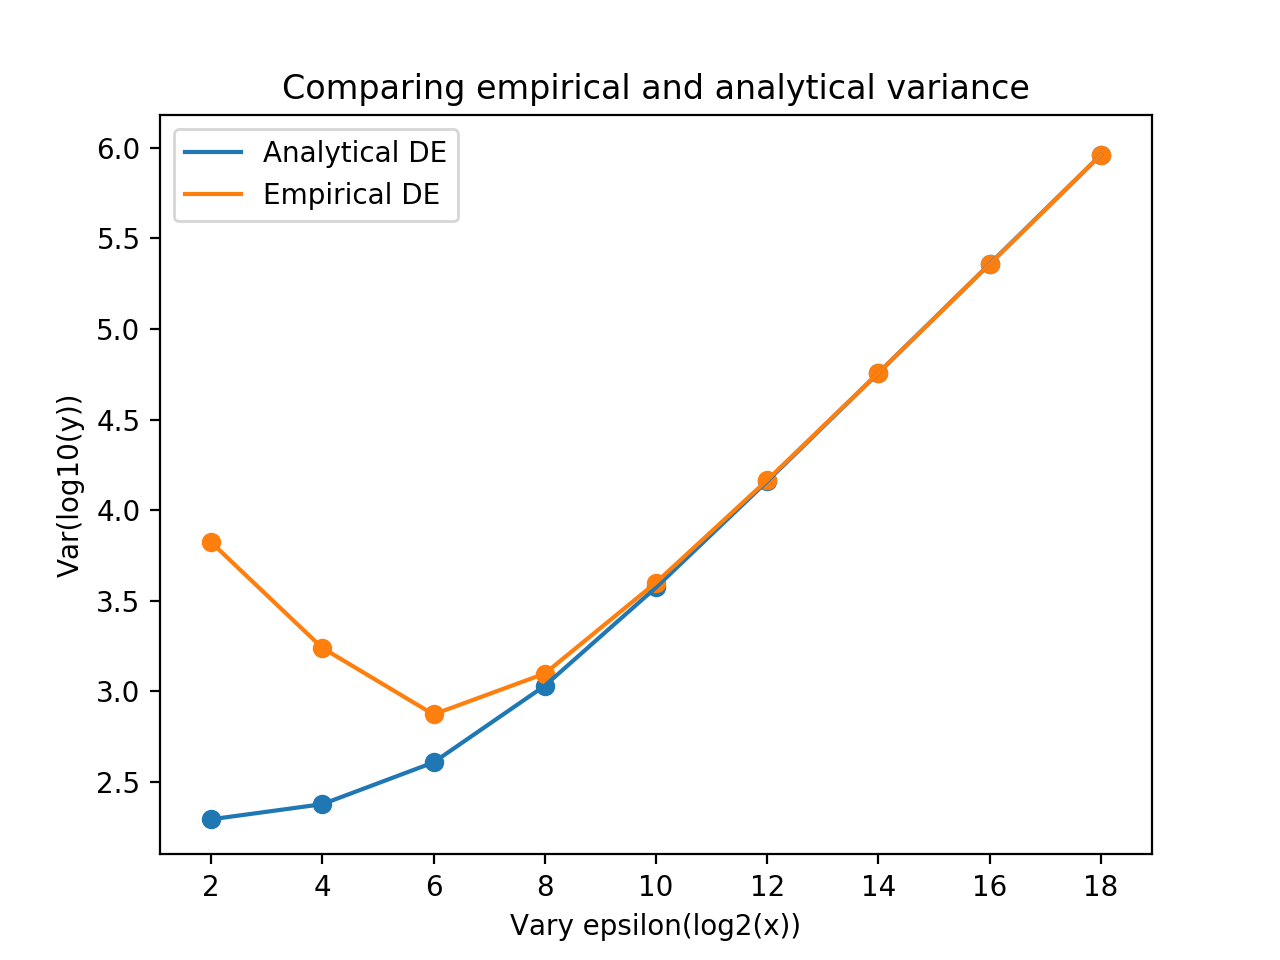
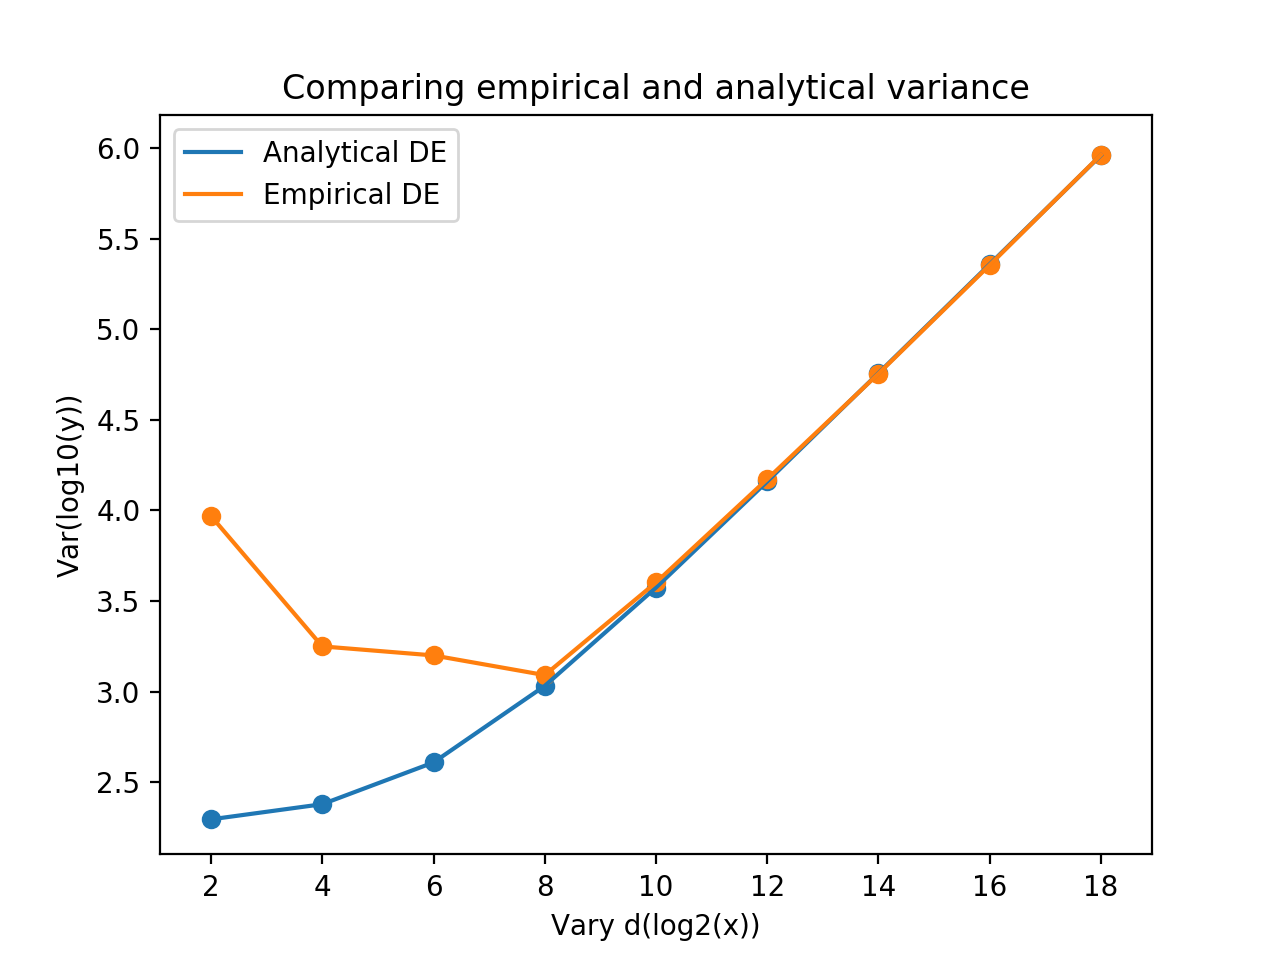
基本完成Direct Encoding,粗略地完成了BLH和OLH

diff --git a/LH_test.py b/LH_test.py
@@ -1,0 +1,177 @@
+from DE.DE import DE
+from protocols.LocalHashing import LocalHashing
+from Components.Draw import draw
+from Components.Distribution import zipf
+import math
+import numpy as np
+
+# protocol is class
+def analytical_BLH(protocol, d, n, g):
+    vars = [] # return a list of variances
+    for step in range(10): # 10 values
+        epsilon = 0.5 + 0.5 * step
+        x = protocol(d, epsilon, g)
+        x.set_n(n)
+        vars.append(x.var_analytical())
+    return vars
+
+# protocol is class, fixing epsilon
+# run very slow, when d is 2^10
+def analytical_eps_BLH(protocol, epsilon, n, g):
+    vars = [] # return a list of variances
+    for step in range(9): #### 9 values
+        d = 2**(2 + step*2)
+        x = protocol(d, epsilon, g)
+        x.set_n(n)
+        vars.append(x.var_analytical())
+    return vars
+
+# zipf distribution, similar to experiments in 14-RAPPOR
+# run very slow, when d is 2^10
+def empirical_eps_BLH(protocol, epsilon, n, g):
+    vars = []
+    for step in range(9): #### 9 values
+        d = 2**(2 + step*2)
+        x = protocol(d, epsilon, g) # init
+        users = zipf.zipf(1.1, d, n)
+        for i in range(len(users)):
+            if i % 1000 == 0:
+                print(step, i, x.get_class_name(), 1)
+            x.PE(users[i])
+        x.aggregation() # estimate couterEsti
+        
+        f = zipf.probList(1.1, d)
+        vars.append(x.var_empirical(f, n))
+    return vars
+
+# g = math.exp(epsilon)+1, to the nearst prime
+def analytical_OLH(protocol, d, n):
+    vars = [] # return a list of variances
+    primeList = [3, 3, 5, 7, 13, 23, 37, 53, 89, 149] # according to epsilon=[0.5, 1.0, ..., 5.0]
+    for step in range(10): # 10 values
+        epsilon = 0.5 + 0.5 * step
+        g = primeList[step]
+        x = protocol(d, epsilon, g)
+        x.set_n(n)
+        vars.append(x.var_analytical())
+    return vars
+
+# protocol is class, fixing epsilon
+# run very slow, when d is 2^10
+def analytical_eps_OLH(protocol, epsilon, n):
+    vars = [] # return a list of variances
+    g = round(math.exp(epsilon)+1)
+    for step in range(9): # 9 values
+        d = 2**(2 + step*2)
+        x = protocol(d, epsilon, g)
+        x.set_n(n)
+        vars.append(x.var_analytical())
+    return vars
+
+# protocol is class, fixing epsilon
+# run very slow, when d is 2^10
+def empirical_eps_OLH(protocol, epsilon, n):
+    vars = []
+    g = 53 # round(math.exp(epsilon)+1)效果不好，要取最近的素数（因为universal hashing！！)
+    for step in range(9): #### 9 values
+        d = 2**(2 + step*2)
+        x = protocol(d, epsilon, g) # init
+        users = zipf.zipf(1.1, d, n)
+        for i in range(len(users)):
+            if i % 1000 == 0:
+                print(step, i, x.get_class_name(), 2)
+            x.PE(users[i])
+        x.aggregation() # estimate couterEsti
+        
+        f = zipf.probList(1.1, d)
+        vars.append(x.var_empirical(f, n))
+    return vars
+
+# zipf distribution, similar to experiments in 14-RAPPOR
+def empirical(protocol, d, n):
+    vars = []
+    for step in range(10): # 10 values
+        epsilon = 0.5 + 0.5 * step
+        x = protocol(d, epsilon) # init
+        users = zipf.zipf(1.1, d, n)
+        for i in range(len(users)):
+            x.PE(users[i])
+        x.aggregation() # estimate couterEsti
+        
+        f = zipf.probList(1.1, d)
+        vars.append(x.var_empirical(f, n))
+    return vars
+
+'''
+need run 10 times.
+'''
+# Figure 1(b)
+def numerical_values_of_var2(): 
+    varslist = [] # return a list of (a list of variances)
+    d=2**10 # 2^10
+    # BLH
+    vars = analytical_BLH(LocalHashing, d, 10000, 2) 
+    for i in range(len(vars)):
+        vars[i] = math.log10(vars[i])
+    varslist.append(vars)
+    # OLH
+    vars = analytical_OLH(LocalHashing, d, 10000) # g = math.exp(epsilon)+1
+    for i in range(len(vars)):
+        vars[i] = math.log10(vars[i])
+    varslist.append(vars)
+
+    epss = [0.5+0.5*item for item in range(10)] # 0.5, 1.0, ..., 5.0
+    draw.lines(epss, varslist, ['BLH', 'OLH'], ylabel='Var(log10(y))')
+
+# Figure 2(b)
+def Comparing_empirical_and_analytical_variance_b():
+    n = 10000 ######## 10000
+    varslist = [] # return a list of (a list of variances)
+    # Analytical BLH
+    vars = analytical_eps_BLH(LocalHashing, 4, n, 2)
+    for i in range(len(vars)):
+        vars[i] = math.log10(vars[i])
+    varslist.append(vars)
+    # Empirical BLH
+    vars = empirical_eps_BLH(LocalHashing, 4, n, 2)
+    for i in range(len(vars)): #log10
+        vars[i] = math.log10(vars[i])
+    varslist.append(vars)
+
+    # Analytical OLH
+    vars = analytical_eps_OLH(LocalHashing, 4, n)
+    for i in range(len(vars)):
+        vars[i] = math.log10(vars[i])
+    varslist.append(vars)
+    # Empirical OLH
+    vars = empirical_eps_OLH(LocalHashing, 4, n)
+    for i in range(len(vars)): #log10
+        vars[i] = math.log10(vars[i])
+    varslist.append(vars)
+    # Draw
+    d = [item for item in range(2, 20, 2)] # 2^2, 2^4, ..., 2^18
+    print(len(d), len(varslist[0]))
+    draw.lines(d, varslist, ['Analytical BLH', 'Empirical BLH', 'Analytical OLH', 'Empirical OLH'], title='Comparing empirical and analytical variance', xlabel='Vary d(log2(x))', ylabel='Var(log10(y))')
+
+# Figure 2(c)
+def Comparing_empirical_and_analytical_variance2():
+    varslist = [] # return a list of (a list of variances)
+    # Analytical DE
+    vars = analytical(DE, 2**10, 10000)
+    for i in range(len(vars)): #log10
+        vars[i] = math.log10(vars[i])
+    varslist.append(vars)
+    #Empirical DE
+    vars = empirical(DE, 2**10, 10000)
+    for i in range(len(vars)): #log10
+        vars[i] = math.log10(vars[i])
+    varslist.append(vars)
+
+    # Draw
+    eps = [0.5+0.5*item for item in range(10)] # 0.5, 1, ..., 5
+    draw.lines(eps, varslist, ['Analytical DE', 'Empirical DE'], title='Comparing empirical and analytical variance', xlabel='Vary epsilon(log2(x))', ylabel='Var(log10(y))')
+
+if __name__ == "__main__":
+    #numerical_values_of_var2()
+    Comparing_empirical_and_analytical_variance_b()
+    #Comparing_empirical_and_analytical_variance2()

diff --git a/protocols/LocalHashing.py b/protocols/LocalHashing.py
@@ -1,0 +1,106 @@
+from Components.UniversalHashing import UniversalHashing
+import math
+import random
+
+class LocalHashing:
+    '''
+        Local Hashing:including Binary Local Hashing(BLH) and Optimal Local Hashing(OLH),
+        the difference is g. BLH's g is 2.
+        d: domain, including the values [0, 1, ..., d-1]
+        epsilon: privacy budget, >= 0
+        g: range, including the values [0, 1, ..., g-1]
+    '''
+    def __init__(self, d, epsilon, g):
+        self.__d = d # input size
+        self.__epsilon = epsilon # privacy budget
+        self.__g = g
+        self.__p = math.exp(epsilon) / (math.exp(epsilon)+g-1) # probability of pertubation into itself
+        self.__q = 1.0 / (math.exp(epsilon)+g-1) # probability of pertubation into xxx
+        self.__pStar = self.__p # p*
+        self.__qStar = 1.0 / g # q*
+
+        self.__uh = UniversalHashing(g, d) # universal Hashing
+        self.__counterPert = d*[0] # count perturbed number
+        self.__counterReal = d*[0] # count real number [0,0,...,0]
+        self.__n = 0 # the number of users
+        
+    # Encode(v) = <H, x>
+    def __encoding(self, v):
+        self.__n += 1
+        self.__counterReal[v] += 1 # counter
+        H, x = self.__uh.hash(v) # v in [0, 1, ..., d-1], x in [0, 1, ..., g-1]
+        return H, x
+
+    # Perturb(<H, x>) = <H, y>
+    def __perturbing(self, turp): # turple
+        H, x = turp
+        y = self.__random_pick(x)
+        self.__supports(H, y) # counter
+        return H, y
+
+    def PE(self, v):
+        H, x = self.__encoding(v)
+        H, y = self.__perturbing((H, x))
+        return H, y
+
+    def aggregation(self):
+        self.__counterEsti = self.__d*[0]
+
+        # for convience
+        eps = self.__epsilon
+        n = self.__n 
+        pStar = self.__pStar
+        qStar = self.__qStar
+
+        for i in range(self.__d):
+            self.__counterEsti[i] = (self.__counterPert[i]-n*qStar)/(pStar-qStar)
+
+    # numerical/analytical value of variance
+    def var_analytical(self):
+        e = math.exp(self.__epsilon)
+        assert e>1, 'var analytical error : e<=1'
+        d = self.__d
+        g = self.__g
+        n = self.__n
+        return n*( (e-1+g) ** 2)/( (e-1) ** 2)/(g-1)
+
+    # empirical value of variance
+    # f: list of probability,
+    # n: the number 
+    def var_empirical(self, f, n):
+        d = self.__d
+        sum = 0.0
+        for i in range(d):
+            sum += (self.__counterEsti[i] - 1.0*f[i]*n) ** 2
+        return sum / d
+
+    # set n, just for analysis
+    def set_n(self, n):
+        self.__n = n
+
+    def get_n(self):
+        return self.__n
+
+    def get_class_name(self):
+        return str(self.__class__.__name__)
+
+    # a set of input values that y "supports"
+    # counter
+    def __supports(self, H, y):
+        for i in range(self.__d): # counter, Support
+            temp = self.__uh.calc(H, i)
+            if temp == y:
+                self.__counterPert[i] += 1 # v in [0, 1, ..., d-1], x in [0, 1, ..., g-1]
+
+    # input number v
+    def __random_pick(self, v):
+        x = random.uniform(0, 1)
+        if x <= self.__p: # Pr[0, p] perturbed into itself
+            return v
+        # p+(g-1)q = 1, different with DE
+        index = int((x-self.__p)/self.__q) # [0, 1, ..., g-2]
+        if index >= self.__g-2: # Prevent accidents
+            index = self.__g-2
+        if index >= x: # skip x
+            index += 1
+        return index

diff --git a/Components/UniversalHashing.py b/Components/UniversalHashing.py
@@ -1,0 +1,75 @@
+'''
+references: http://cs-www.bu.edu/faculty/homer/537/talks/SarahAdelBargal_UniversalHashingnotes.pdf
+'''
+import math
+import random
+class UniversalHashing:
+    '''
+        g: a prime
+        d: domain, [0, 1, ..., d-1]
+        len: The maximum number of digits in g Base
+        v: an input value in [0, 1, ..., d-1] 
+        hash function: H_a(k) = (a(0)*k(0)+a(1)*k(1)+...+a(len-1)*k(len-1)) % g
+    '''
+    def __init__(self, g, d):
+        self.__g = g
+        assert g>=2, 'g is less than 2'
+        assert self.__isPrime(g), 'g is not a prime'
+
+        self.__d = d
+        self.__len = math.ceil( math.log(d) / math.log(g)) # g进制下，最大的位数
+        self.__a = self.__len*[0] # initial length
+    
+    # v is an input value in [0, 1, ..., d-1] 
+    def hash(self, v):
+        self.__randomness() # regenerate a, select H
+        out = self.calc(self.__a, v)
+        return self.__a, out
+
+    # calc H_a(k) = (a(0)*k(0)+a(1)*k(1)+...+a(len-1)*k(len-1)) % g
+    def calc(self, a, v):
+        assert len(a)==self.__len, 'len(a)!=self.__len'
+        k = self.__toBitList(v)
+        out = 0
+        for i in range(self.__len):
+            out = (out + a[i]*k[i]) % self.__g
+        return out
+
+    def __randomness(self):
+        # generate a
+        for i in range(self.__len):
+            self.__a[i] = random.randint(0, self.__g-1)
+
+    def __toBitList(self, v):
+        assert v>=0, 'v<0'
+        if v == 0:
+            return self.__len * [0]
+        bitList = self.__len * [0]
+        for i in range(self.__len):
+            bitList[i] = v%self.__g
+            v = int(v/self.__g)
+        return bitList
+    
+    def __isPrime(self, v):
+        if v<=1:
+            return False
+        for i in range(2, int(math.sqrt(v))+1, 1):
+            if v%i==0:
+                return False
+        return True
+
+# for test
+if __name__ == "__main__":
+    TIMES = 10
+    g = 29 # prime
+    d = 16 # domain
+    uhash = UniversalHashing(g, d)
+    H = g * [0]
+    for i in range(TIMES): # random TIMES to verify
+        x = random.randint(0, d-1)
+        _, out = uhash.hash(x)
+        H[out] += 1
+    for i in range(g):
+        print(i, H[i])
+
+    

diff --git a/DE_test.py b/DE_test.py
@@ -95,7 +95,7 @@ def Comparing_empirical_and_analytical_variance1():
 
     # Draw
     d = [item for item in range(2, 20, 2)] # 2^2, 2^4, ..., 2^18
-    draw.lines(d, varslist, ['Analytical DE', 'Empirical DE'], title='Comparing empirical and analytical variance', xlabel='Vary epsilon(log2(x))', ylabel='Var(log10(y))')
+    draw.lines(d, varslist, ['Analytical DE', 'Empirical DE'], title='Comparing empirical and analytical variance', xlabel='Vary d(log2(x))', ylabel='Var(log10(y))')
 
 # Figure 2(c)
 def Comparing_empirical_and_analytical_variance2():

diff --git a/DE/DE.py b/DE/DE.py
@@ -3,7 +3,7 @@ import random
 
 class DE:
     """Direct Encoding, 
-       domain [0, 1, ..., d-1]
+       d:domain, including the values [0, 1, ..., d-1]
     """
     def __init__(self, d, epsilon):
         self.__d = d # input size
